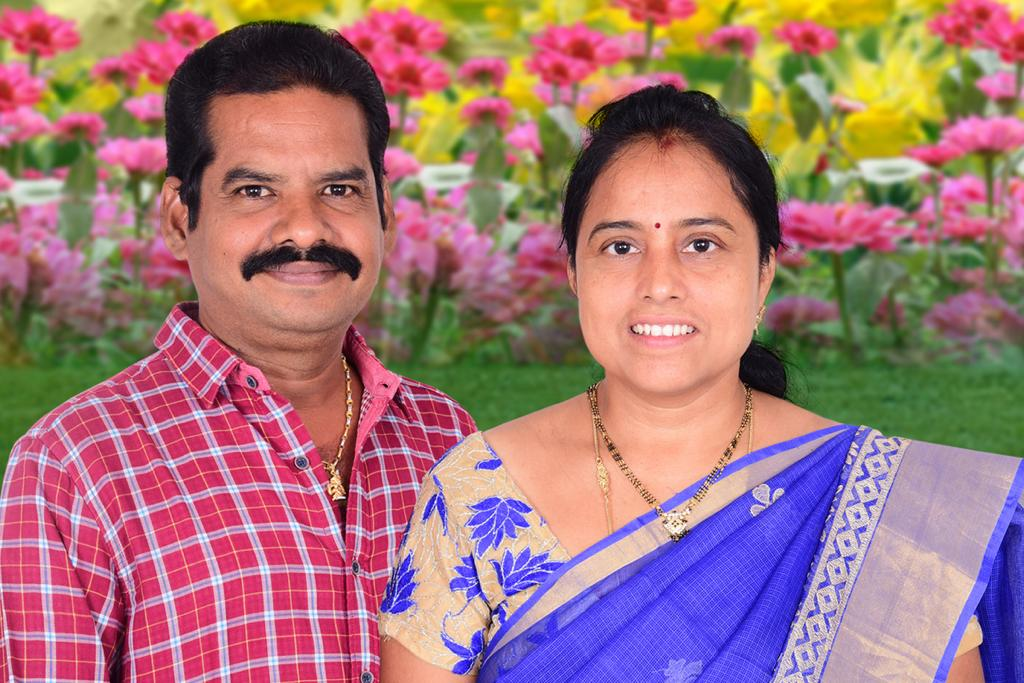
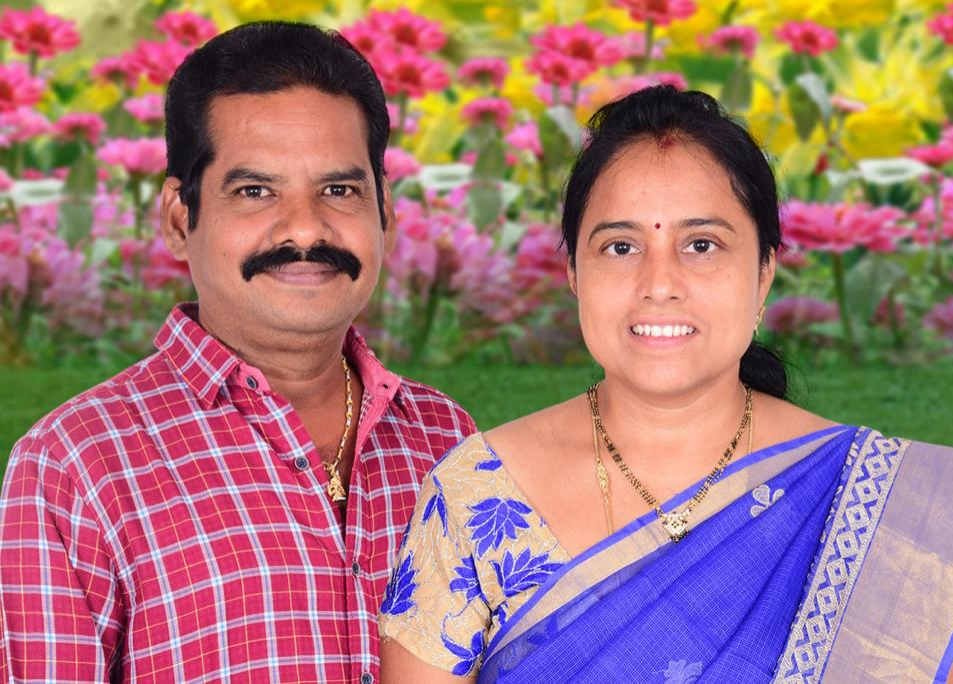
footer 5 columns

diff --git a/components/layout/Footer.tsx b/components/layout/Footer.tsx
@@ -10,9 +10,26 @@ export default function Footer() {
       <Newsletter variant="footer" />
 
       <div className="max-w-7xl mx-auto px-4 py-12">
-        <div className="grid grid-cols-1 md:grid-cols-2 lg:grid-cols-4 gap-8 mb-8">
-          <div style={{ display: 'flex', flexDirection: 'column', minWidth: '200px', maxWidth: '220px' }}>
-            <img src="/images/owner.jpg" alt="Owner" style={{ display: 'block', width: '180px', height: '200px', borderRadius: '16px', objectFit: 'cover', WebkitMaskImage: 'radial-gradient(ellipse at center, black 60%, transparent 100%)', maskImage: 'radial-gradient(ellipse at center, black 60%, transparent 100%)' }} />
+        <div className="grid grid-cols-1 md:grid-cols-3 lg:grid-cols-5 gap-8 mb-8">
+          
+          {/* Column 1 - Photo */}
+          <div style={{ display: 'flex', flexDirection: 'column', alignItems: 'flex-start' }}>
+            <img 
+              src="/images/owner.jpg" 
+              alt="Owner" 
+              style={{ 
+                width: '160px', 
+                height: '200px', 
+                borderRadius: '16px', 
+                objectFit: 'cover',
+                WebkitMaskImage: 'radial-gradient(ellipse at center, black 60%, transparent 100%)',
+                maskImage: 'radial-gradient(ellipse at center, black 60%, transparent 100%)'
+              }} 
+            />
+          </div>
+
+          {/* Column 2 - Brand Info */}
+          <div style={{ display: 'flex', flexDirection: 'column' }}>
             <h4 className="font-serif text-xl font-bold mb-4">ANVI THE SAREE HOUSE</h4>
             <p className="text-sm opacity-90 leading-relaxed">
               Premium sarees for every celebration. Timeless beauty with intricate zari weaving and delicate patterns.
@@ -31,6 +48,7 @@ export default function Footer() {
             </div>
           </div>
 
+          {/* Column 3 - Shop */}
           <div>
             <h4 className="font-bold mb-4 tracking-wide">SHOP</h4>
             <ul className="text-sm space-y-2 opacity-90">
@@ -41,6 +59,7 @@ export default function Footer() {
             </ul>
           </div>
 
+          {/* Column 4 - About */}
           <div>
             <h4 className="font-bold mb-4 tracking-wide">ABOUT</h4>
             <ul className="text-sm space-y-2 opacity-90">
@@ -51,6 +70,7 @@ export default function Footer() {
             </ul>
           </div>
 
+          {/* Column 5 - Contact */}
           <div>
             <h4 className="font-bold mb-4 tracking-wide">CONTACT</h4>
             <div className="text-sm space-y-2 opacity-90">
@@ -60,6 +80,7 @@ export default function Footer() {
               <p>Open until 9:30 PM</p>
             </div>
           </div>
+
         </div>
 
         <div className="border-t border-primary-foreground/20 pt-8 flex flex-col md:flex-row items-center justify-between gap-4 text-sm opacity-90">